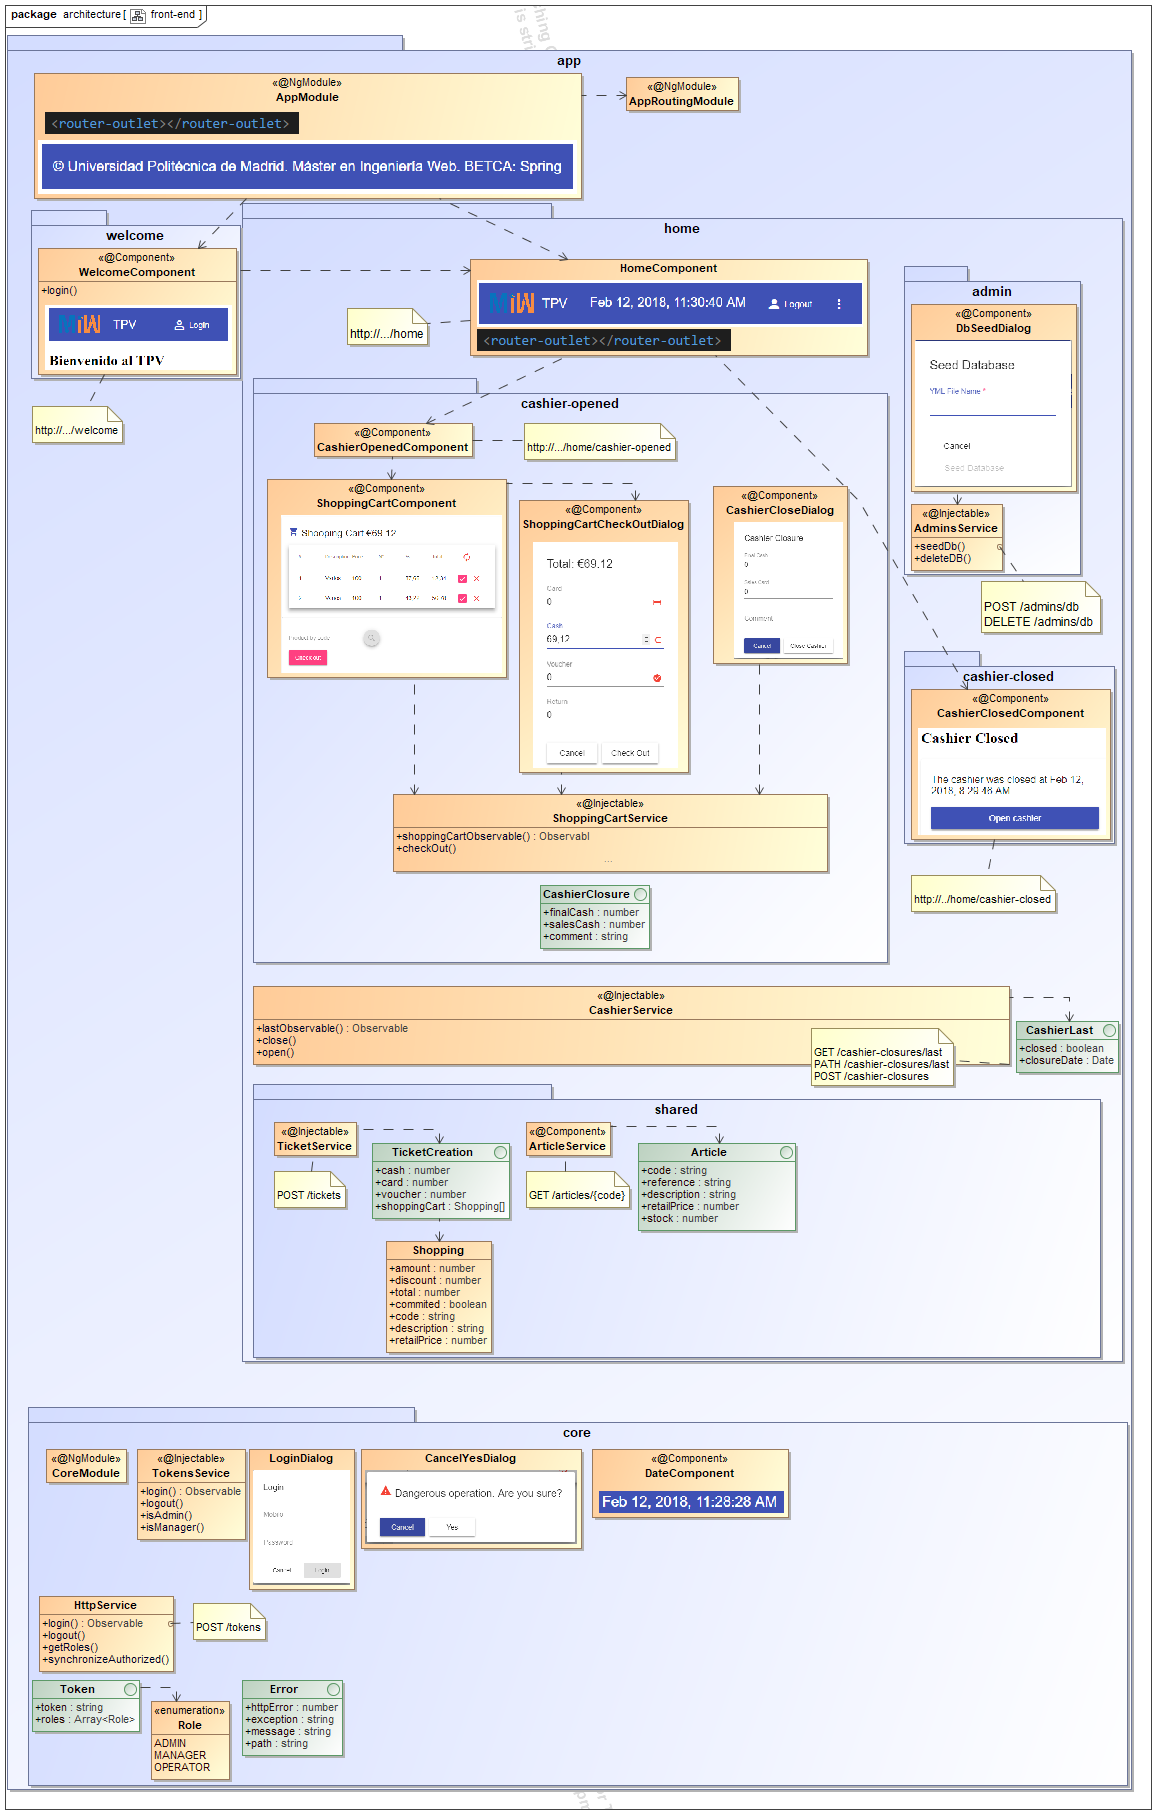
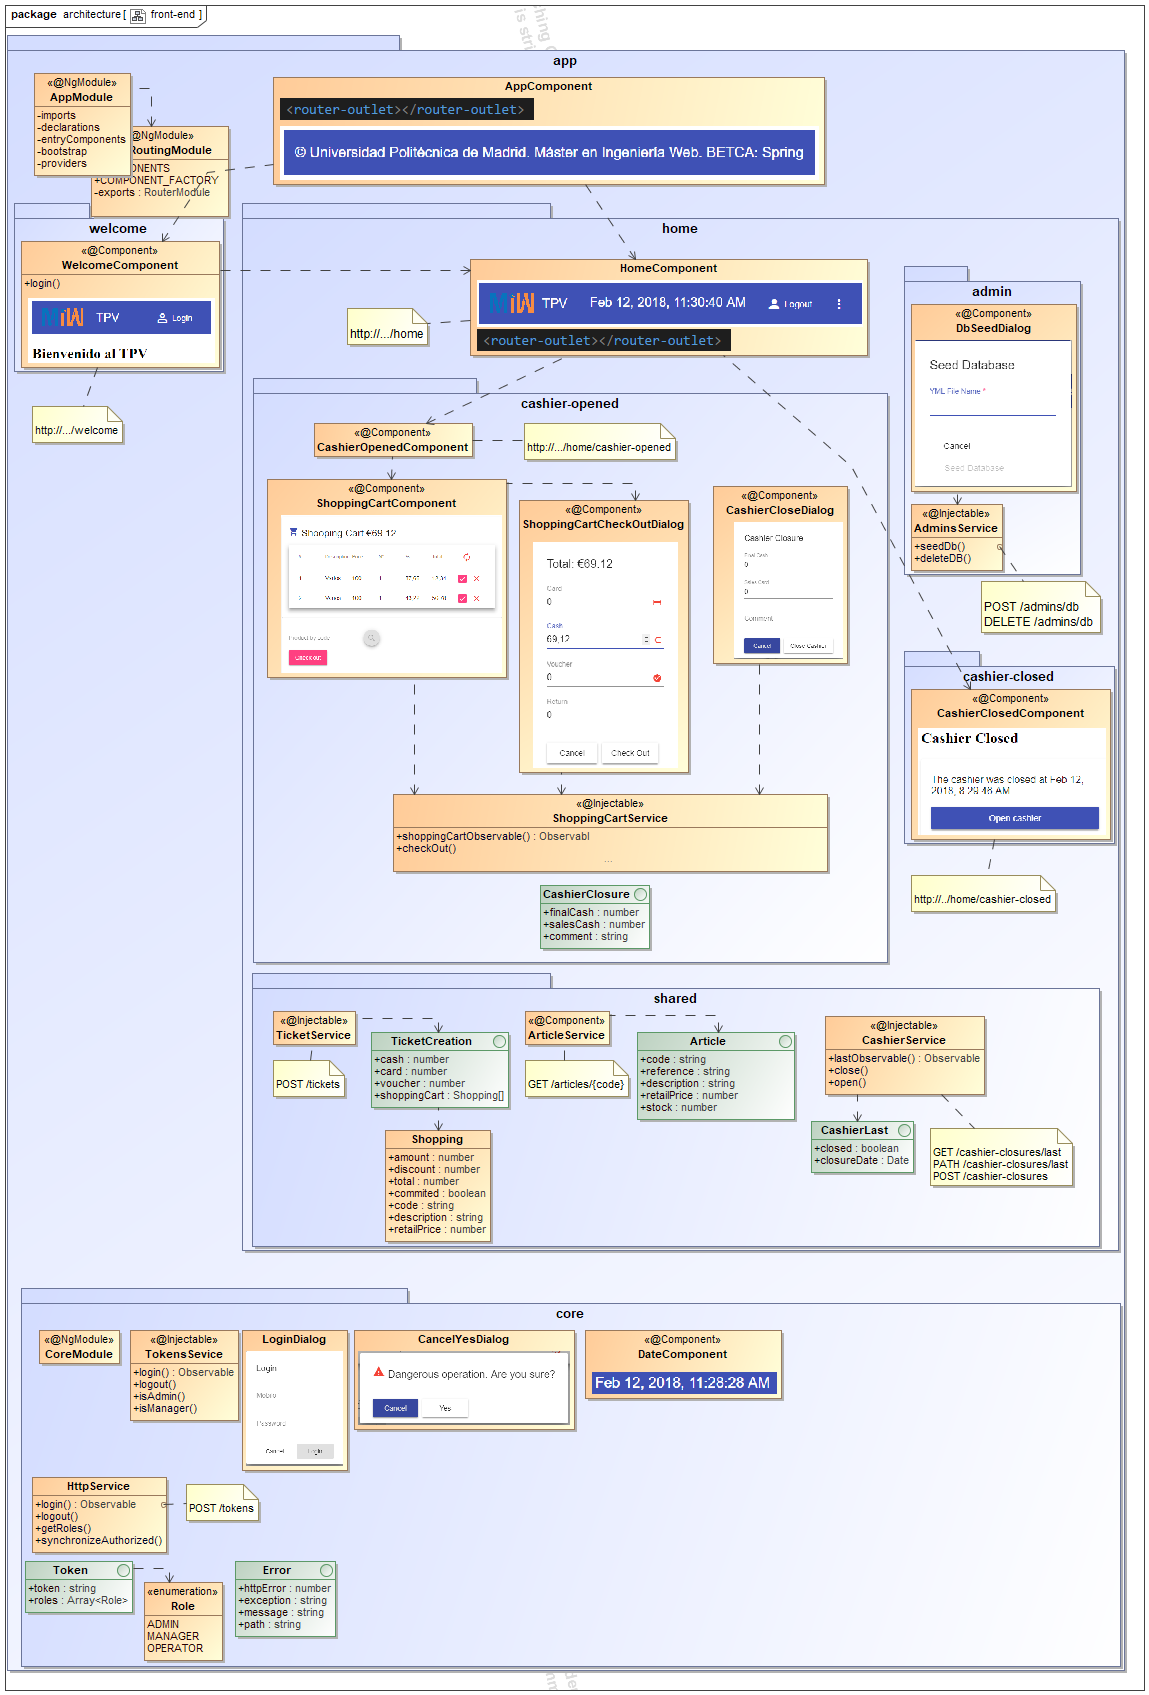
docs

diff --git a/src/app/app.module.ts b/src/app/app.module.ts
@@ -25,7 +25,7 @@ import { CoreModule } from './core/core.module';
 import { AdminsService } from './home/admin/admins.service';
 import { HttpService } from './core/http.service';
 import { TokensService } from './core/tokens.service';
-import { CashierService } from './home/cashier.service';
+import { CashierService } from './home/shared/cashier.service';
 import { ShoppingCartService } from './home/cashier-opened/shopping-cart.service';
 import { ArticleService } from './home/shared/article.service';
 import { TicketService } from './home/shared/ticket.service';

diff --git a/src/app/home/shared/cashier.service.ts b/src/app/home/shared/cashier.service.ts
@@ -4,9 +4,9 @@ import { Observable } from 'rxjs/Observable';
 import { Subject } from 'rxjs/Subject';
 
 import { CashierLast } from './cashier-last.model';
-import { CashierClosure } from './cashier-opened/cashier-closure.model';
-import { HttpService } from '../core/http.service';
-import { ArticleService } from './shared/article.service';
+import { CashierClosure } from './cashier-closure.model';
+import { HttpService } from '../../core/http.service';
+import { ArticleService } from './article.service';
 
 @Injectable()
 export class CashierService {

diff --git a/src/app/home/home.component.ts b/src/app/home/home.component.ts
@@ -3,7 +3,7 @@ import { Router } from '@angular/router';
 import { Subscription } from 'rxjs/Subscription';
 import { MatDialog } from '@angular/material';
 
-import { CashierService } from './cashier.service';
+import { CashierService } from './shared/cashier.service';
 import { TokensService } from '../core/tokens.service';
 import { DbSeedDialogComponent } from './admin/db-seed-dialog.component';
 import { CancelYesDialogComponent } from '../core/cancel-yes-dialog.component';

diff --git a/src/app/home/cashier-opened/shopping-cart-check-out-dialog.component.ts b/src/app/home/cashier-opened/shopping-cart-check-out-dialog.component.ts
@@ -1,6 +1,6 @@
 import { Component, Input } from '@angular/core';
-import { CashierClosure } from './cashier-closure.model';
-import { CashierService } from '../cashier.service';
+import { CashierClosure } from '../shared/cashier-closure.model';
+import { CashierService } from '../shared/cashier.service';
 import { ShoppingCartService } from './shopping-cart.service';
 import { TicketCreation } from '../shared/ticket-creation.model';
 

diff --git a/src/app/home/cashier-opened/cashier-close-dialog.component.ts b/src/app/home/cashier-opened/cashier-close-dialog.component.ts
@@ -1,6 +1,6 @@
 import { Component } from '@angular/core';
-import { CashierClosure } from './cashier-closure.model';
-import { CashierService } from '../cashier.service';
+import { CashierClosure } from '../shared/cashier-closure.model';
+import { CashierService } from '../shared/cashier.service';
 
 @Component({
     templateUrl: 'cashier-close-dialog.component.html',

diff --git a/src/app/home/cashier-closed/cashier-closed.component.ts b/src/app/home/cashier-closed/cashier-closed.component.ts
@@ -1,7 +1,7 @@
 import { Component } from '@angular/core';
-import { CashierLast } from '../cashier-last.model';
+import { CashierLast } from '../shared/cashier-last.model';
 
-import { CashierService } from '../cashier.service';
+import { CashierService } from '../shared/cashier.service';
 
 @Component({
     templateUrl: `cashier-closed.component.html`

diff --git a/README.md b/README.md
@@ -1,4 +1,15 @@
-# BetcaTpvAngular
+# Tecnología Spring: Proyecto TPV - Front-end
+#### Back-end con Tecnologías de Código Abierto (SPRING)
+#### [Máster en Ingeniería Web por la U.P.M.](http://miw.etsisi.upm.es)
+
+> Proyecto Front-end completo para el uso de la tecnología Angular-Spring.  
+> El Back-end se desarrolla en Spring en el proyecto [betca-tpv-spring](https://github.com/miw-upm/betca-tpv-spring).
+> Se debe arrancar el [API]() en linea de comando mediante:
+> * A partir del código fuente: `>mvn clean spring-boot:run`
+> * A partir del JAR: `java -jar release.jar`  
+
+Para más información, en la [wiki](https://github.com/miw-upm/betca-tpv-angular/wiki)
+
 
 This project was generated with [Angular CLI](https://github.com/angular/angular-cli) version 1.6.0.
 
@@ -25,3 +36,5 @@ Run `ng e2e` to execute the end-to-end tests via [Protractor](http://www.protrac
 ## Further help
 
 To get more help on the Angular CLI use `ng help` or go check out the [Angular CLI README](https://github.com/angular/angular-cli/blob/master/README.md).
+
+###### Autor: Jesús Bernal Bermúdez U.P.M.
